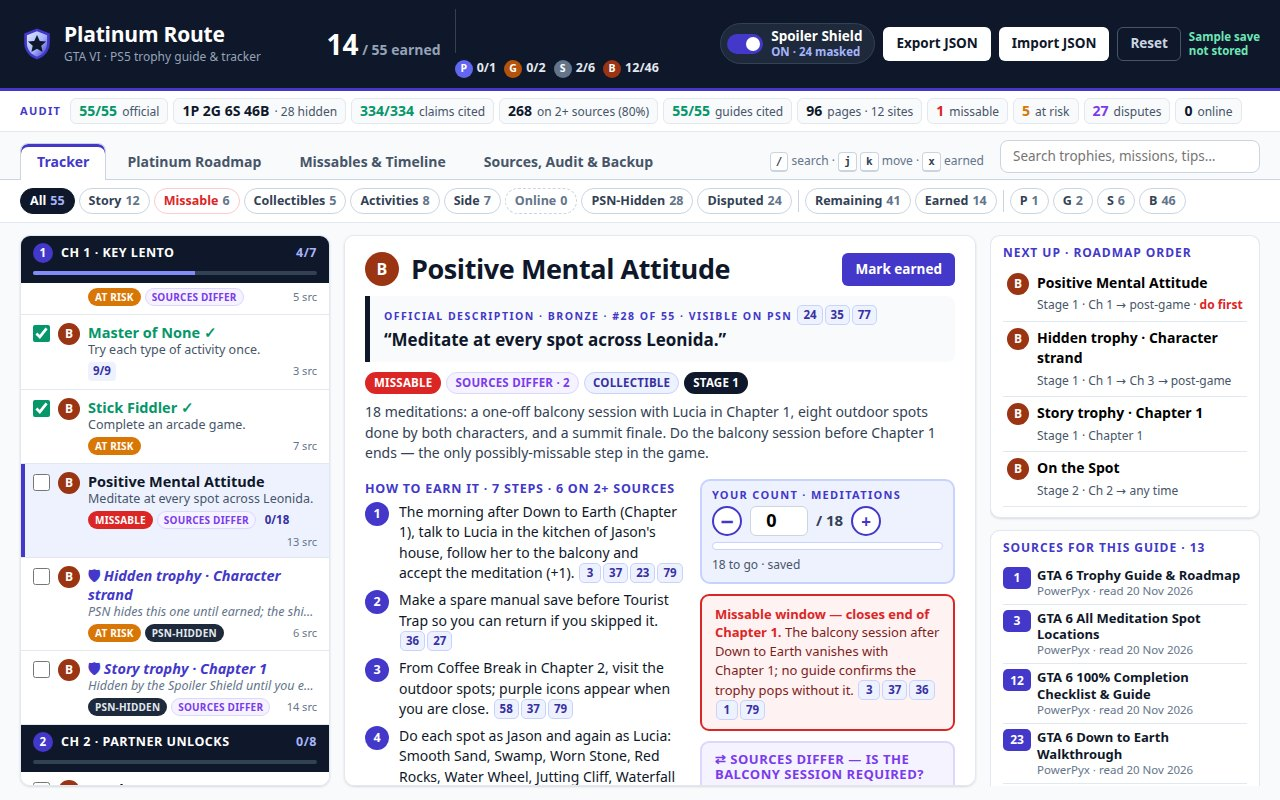
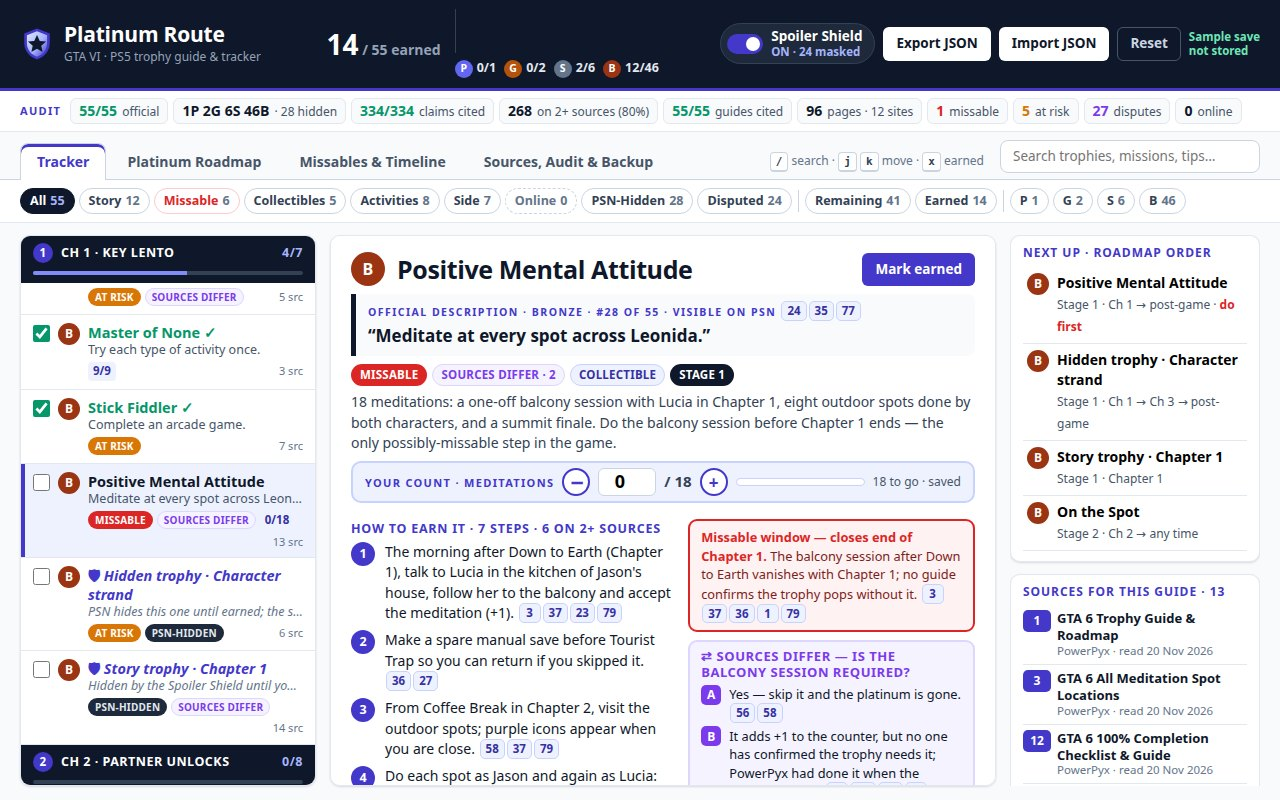
Critique pass 1: one-row header, filters and audit; cover shows steps, window and Sources Differ together; roadmap route strip
- Header, audit strip and filter chips each fit one row at 1280px; search moved to the tab row
- Sample save is a late Chapter 1 save so the cover list shows masked story and hidden rows
- Trophy detail: compact counter line, steps beside missable window and Sources Differ boxes
- Roadmap: all 7 stages in one coloured route strip with STOP flags
- Fix: Escape-cleared search now restores the list (browser 'search' event)

Changed region(s): [[0.0, 0.2812, 0.9688, 1.0], [0.2188, 0.5312, 0.25, 0.5625]]

diff --git a/app/css/views.css b/app/css/views.css
@@ -55,11 +55,11 @@ body { height: 100vh; }
 /* ---------- Detail ---------- */
 .detail-head { display: flex; align-items: center; gap: 12px; }
 .grade-lg { width: 34px; height: 34px; font-size: 16px; }
-.detail-name { flex: 1; font-size: 27px; font-weight: 800; letter-spacing: -.015em; }
+.detail-name { flex: 1; font-size: 25px; font-weight: 800; letter-spacing: -.015em; }
 .btn-earned { background: var(--safe); color: #fff; }
 .official {
-  margin-top: 10px;
-  padding: 8px 14px;
+  margin-top: 8px;
+  padding: 6px 12px;
   border-left: 5px solid var(--ink);
   background: var(--page);
   border-radius: 0 8px 8px 0;
@@ -67,7 +67,7 @@ body { height: 100vh; }
 .official-label { font: 800 10.5px/1 var(--font); letter-spacing: .14em; text-transform: uppercase; color: var(--primary); }
 .official-text { font-size: 17px; font-weight: 700; margin: 2px 0 1px; }
 .official-meta { font-size: 12px; color: var(--muted); }
-.pill-row { display: flex; flex-wrap: wrap; gap: 5px; margin: 10px 0 8px; }
+.pill-row { display: flex; flex-wrap: wrap; gap: 5px; margin: 8px 0 6px; }
 .guide-summary { font-size: 14px; color: var(--ink-3); }
 
 .counter {
@@ -75,15 +75,15 @@ body { height: 100vh; }
   flex-wrap: wrap;
   align-items: center;
   gap: 8px;
-  margin: 10px 0;
-  padding: 8px 12px;
+  margin: 8px 0 2px;
+  padding: 5px 12px;
   border: 2px solid var(--primary-line);
   border-radius: 10px;
   background: var(--primary-soft);
 }
 .counter-label { font: 800 11px/1 var(--font); letter-spacing: .12em; text-transform: uppercase; color: var(--primary); }
-.counter-btn { width: 30px; height: 30px; border-radius: 50%; border: 2px solid var(--primary); background: #fff; color: var(--primary); font-weight: 800; font-size: 17px; line-height: 1; }
-.counter-input { width: 64px; padding: 3px 6px; border: 1px solid var(--line-2); border-radius: 6px; font: 800 18px/1.2 var(--font); text-align: center; }
+.counter-btn { width: 28px; height: 28px; border-radius: 50%; border: 2px solid var(--primary); background: #fff; color: var(--primary); font-weight: 800; font-size: 17px; line-height: 1; }
+.counter-input { width: 58px; padding: 2px 6px; border: 1px solid var(--line-2); border-radius: 6px; font: 800 18px/1.2 var(--font); text-align: center; }
 .counter-of { font-weight: 700; color: var(--ink-3); }
 .counter-bar { flex: 1 1 80px; height: 8px; border-radius: 9px; background: #fff; overflow: hidden; border: 1px solid var(--primary-line); }
 .counter-bar b { display: block; height: 100%; background: var(--primary); }
@@ -294,14 +294,26 @@ body { height: 100vh; }
 
 /* Detail body: numbered steps beside the risk window and Sources Differ boxes. */
 .detail-body { margin-top: 4px; }
-.detail-body.has-side { display: grid; grid-template-columns: minmax(0, 1.25fr) minmax(0, 1fr); gap: 0 16px; align-items: start; }
+.detail-body.has-side { display: grid; grid-template-columns: minmax(0, 1.12fr) minmax(0, 1fr); gap: 0 16px; align-items: start; }
 .detail-side .window-box:first-child, .detail-side .differ-box:first-child { margin-top: 12px; }
-.detail-side .window-box, .detail-side .differ-box { font-size: 13px; }
+.detail-side .window-box, .detail-side .differ-box { font-size: 12.8px; padding: 7px 11px; margin: 8px 0; }
 @media (max-width: 1100px) { .detail-body.has-side { grid-template-columns: 1fr; } }
-.detail-side .counter { margin: 12px 0 0; gap: 6px 8px; padding: 8px 10px; }
-.detail-side .counter-label { flex-basis: 100%; }
-.detail-side .counter-bar { flex-basis: 100%; order: 9; }
-.detail-side .counter-left { order: 10; }
 .official-label .cite { letter-spacing: 0; }
-.detail-side .counter-input { width: 58px; }
-.detail-side .counter-of { font-size: 15px; }
+
+/* Roadmap route strip: all stages in order, one glance. */
+.rm-route { list-style: none; margin: 0 0 14px; padding: 0; display: grid; grid-template-columns: repeat(7, minmax(0, 1fr)); gap: 0; }
+.rm-route-step { position: relative; display: flex; align-items: center; gap: 8px; padding: 9px 10px 9px 12px; color: #fff; background: var(--primary); min-height: 58px; }
+.rm-route-step:first-child { border-radius: 10px 0 0 10px; }
+.rm-route-step:last-child { border-radius: 0 10px 10px 0; }
+.rm-route-step + .rm-route-step { border-left: 3px solid #fff; }
+.rm-route-step.tone-ink { background: var(--ink); }
+.rm-route-step.tone-red { background: var(--missable); }
+.rm-route-step.tone-amber { background: var(--risk); }
+.rm-route-step.tone-green { background: var(--safe); }
+.rm-route-n { flex: none; display: grid; place-items: center; width: 30px; height: 30px; border-radius: 50%; background: #fff; color: var(--ink); font-weight: 900; font-size: 17px; }
+.rm-route-text { display: flex; flex-direction: column; min-width: 0; line-height: 1.15; }
+.rm-route-text b { font-size: 14.5px; font-weight: 900; }
+.rm-route-text small { font-size: 12px; font-weight: 700; opacity: .9; }
+.rm-route-stop { position: absolute; top: -9px; right: 6px; padding: 1px 6px; border-radius: 5px; background: #fff; color: var(--missable); border: 2px solid var(--missable); font-size: 10.5px; font-weight: 900; }
+.kpi-row { margin-bottom: 18px; }
+@media (max-width: 1100px) { .rm-route { grid-template-columns: repeat(4, minmax(0, 1fr)); row-gap: 6px; } }

diff --git a/app/js/roadmapView.js b/app/js/roadmapView.js
@@ -42,6 +42,21 @@ function stageCard(stage, guide, store) {
   </article>`;
 }
 
+/** The whole route on one line: every stage in play order with its progress and any missable stop. */
+function routeStrip(guide, store) {
+  return `<ol class="rm-route" aria-label="Route overview">${guide.roadmap.stages
+    .map((stage) => {
+      const all = guide.trophies.filter((t) => t.roadmapStage === stage.id);
+      const done = all.filter((t) => store.isEarned(t.id)).length;
+      return `<li class="rm-route-step tone-${stage.tone ?? 'indigo'}">
+        <span class="rm-route-n">${stage.n}</span>
+        <span class="rm-route-text"><b>${escapeHtml(stage.title)}</b><small>${done}/${all.length} trophies</small></span>
+        ${stage.stop ? '<span class="rm-route-stop">⛔ STOP</span>' : ''}
+      </li>`;
+    })
+    .join('')}</ol>`;
+}
+
 /** Render the roadmap into its section. */
 export function renderRoadmapView(el, app) {
   const { guide, store } = app;
@@ -54,6 +69,7 @@ export function renderRoadmapView(el, app) {
       <button type="button" class="btn btn-light print-btn" data-print>Print roadmap</button>
     </header>
     <div class="kpi-row">${r.kpis.map((k) => kpiTile(k, guide, app.audit)).join('')}</div>
+    ${routeStrip(guide, store)}
     <div class="rm-grid">${r.stages.map((s) => stageCard(s, guide, store)).join('')}</div>
   </div>`;
   el.querySelectorAll('[data-pick]').forEach((b) =>

diff --git a/app/js/trophyDetail.js b/app/js/trophyDetail.js
@@ -88,12 +88,13 @@ export function renderTrophyDetail(el, t, guide, store, handlers) {
     </div>
     <div class="pill-row">${pills}</div>
     <p class="guide-summary">${escapeHtml(t.guide)}</p>
-    <div class="detail-body${t.window || t.counter || (t.disputes ?? []).length ? ' has-side' : ''}">
+    ${counterHtml(t, store)}
+    <div class="detail-body${t.window || (t.disputes ?? []).length ? ' has-side' : ''}">
       <div class="detail-main">
         ${stepsHtml(t, guide)}
         ${(t.tips ?? []).length ? `<div class="tips"><h4>Tips</h4><ul>${t.tips.map((s) => `<li>${escapeHtml(s.t)} ${citeChips(s.c, guide)}</li>`).join('')}</ul></div>` : ''}
       </div>
-      <div class="detail-side">${counterHtml(t, store)}${windowHtml(t, guide)}${disputesHtml(t, guide)}</div>
+      <div class="detail-side">${windowHtml(t, guide)}${disputesHtml(t, guide)}</div>
     </div>`;
 
   el.querySelector('[data-earn]').addEventListener('click', () => handlers.toggle(t.id));

diff --git a/app/css/layout.css b/app/css/layout.css
@@ -180,7 +180,7 @@ body { min-height: 100vh; display: flex; flex-direction: column; }
   flex: 1;
   min-height: 0;
   display: grid;
-  grid-template-columns: minmax(260px, 310px) minmax(0, 1fr) minmax(220px, 270px);
+  grid-template-columns: minmax(250px, 296px) minmax(0, 1fr) minmax(210px, 250px);
   gap: 14px;
   padding: 12px 20px 14px;
 }
